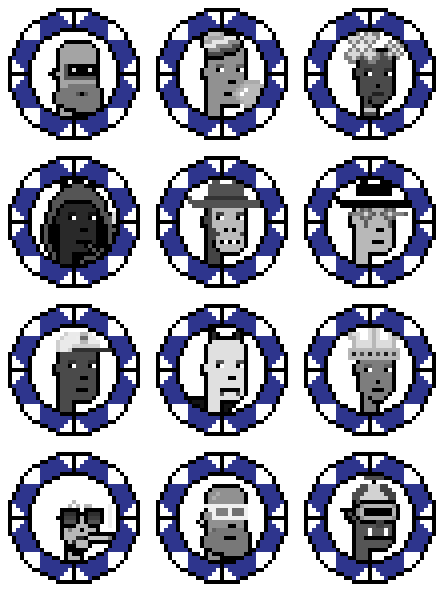
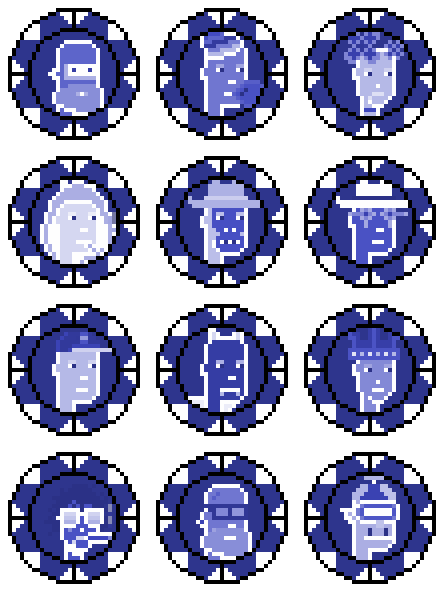
up

diff --git a/bluechip/bluechip.rb b/bluechip/bluechip.rb
@@ -7,13 +7,47 @@
 require 'punks'
 
 
+def gen_palette( color )
+  ## from black to color
+  h,s,l = Color.to_hsl( color )
+
+  pp h
+  pp s
+  pp l
+
+  darker = 0.35    ## cut-off colors starting from black
+  lighter = 0.0   ## cut-off colors starting from white
+
+  ldiff = (1.0 - darker - lighter)
+
+  puts "  ldiff: #{ldiff}"
+
+  colors = []
+  256.times do |i|
+     lnew = darker+(ldiff*i / 256.0)
+     puts "  #{i} - #{lnew}"
+     colors << Color.from_hsl( h, s, lnew)
+  end
+
+  colors
+end
+
+
+
+CHIP_BASE    =   Color.from_hex( '#2E358D' )
+CHIP_PALETTE =   gen_palette(  CHIP_BASE )
+
+img = ImagePalette8bit.new( CHIP_PALETTE, size: 4 )
+img.save( "./tmp/palette_chip.png" )
+img.zoom(2).save( "tmp/palette_chipx2.png" )
+
 
 
 CHIP_FRAME   = Image.read( "./bluechip-33x33.png" )
 puts "   #{CHIP_FRAME.width}x#{CHIP_FRAME.height}"
 
 
-def mint( punk )
+def old_mint( punk )
   ## change to coin color palette
   chip = Image.new( 33, 33 )
   chip.compose!( Image.new( 24, 24, '#ffffff'), 6, 3 )
@@ -22,6 +56,14 @@ def mint( punk )
   chip
 end
 
+def mint( punk )
+  ## change to coin color palette
+  chip = Image.new( 33, 33 )
+  chip.compose!( Image.new( 22, 22, CHIP_BASE ), 6, 6 )
+  chip.compose!( punk.change_palette8bit( CHIP_PALETTE.reverse ), 6, 3 )
+  chip.compose!( CHIP_FRAME )
+  chip
+end
 
 
 
